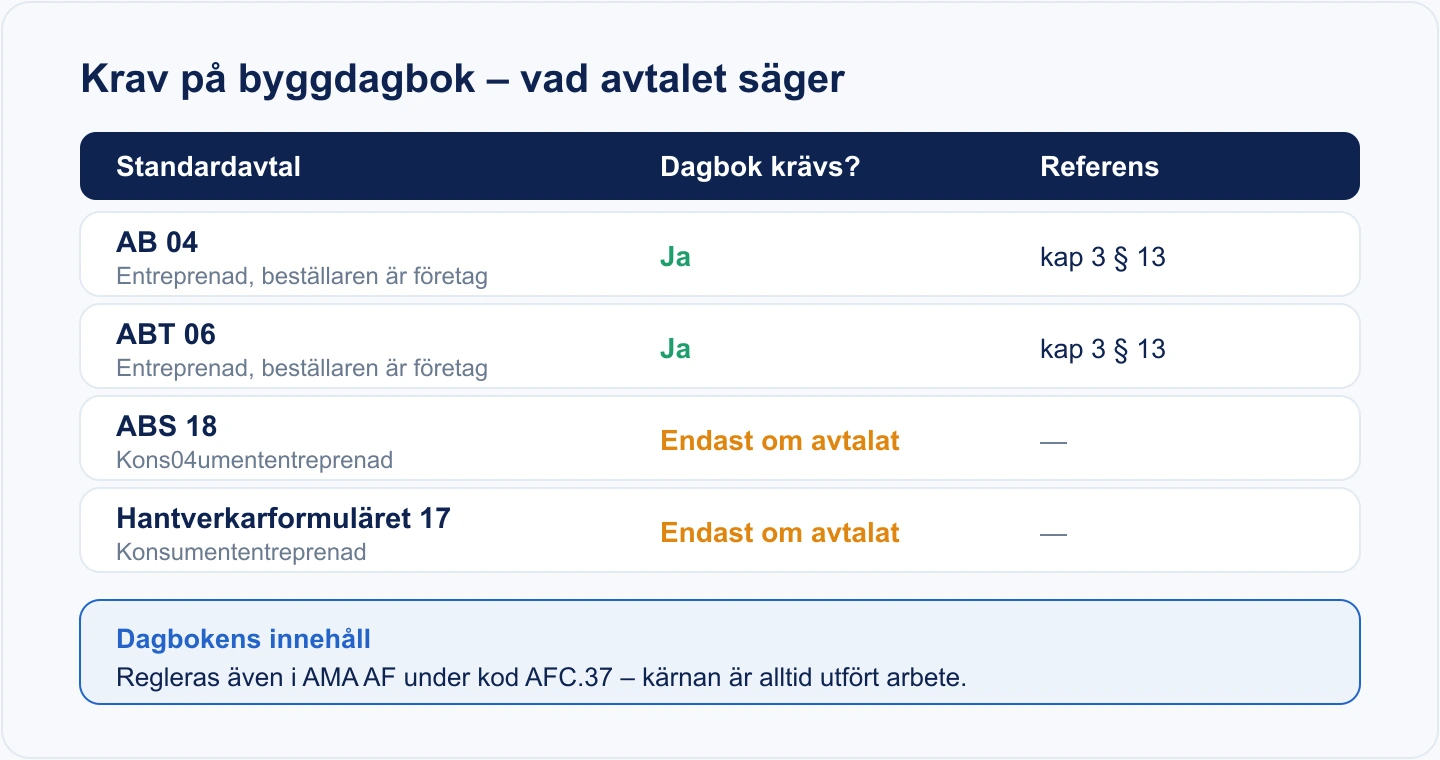
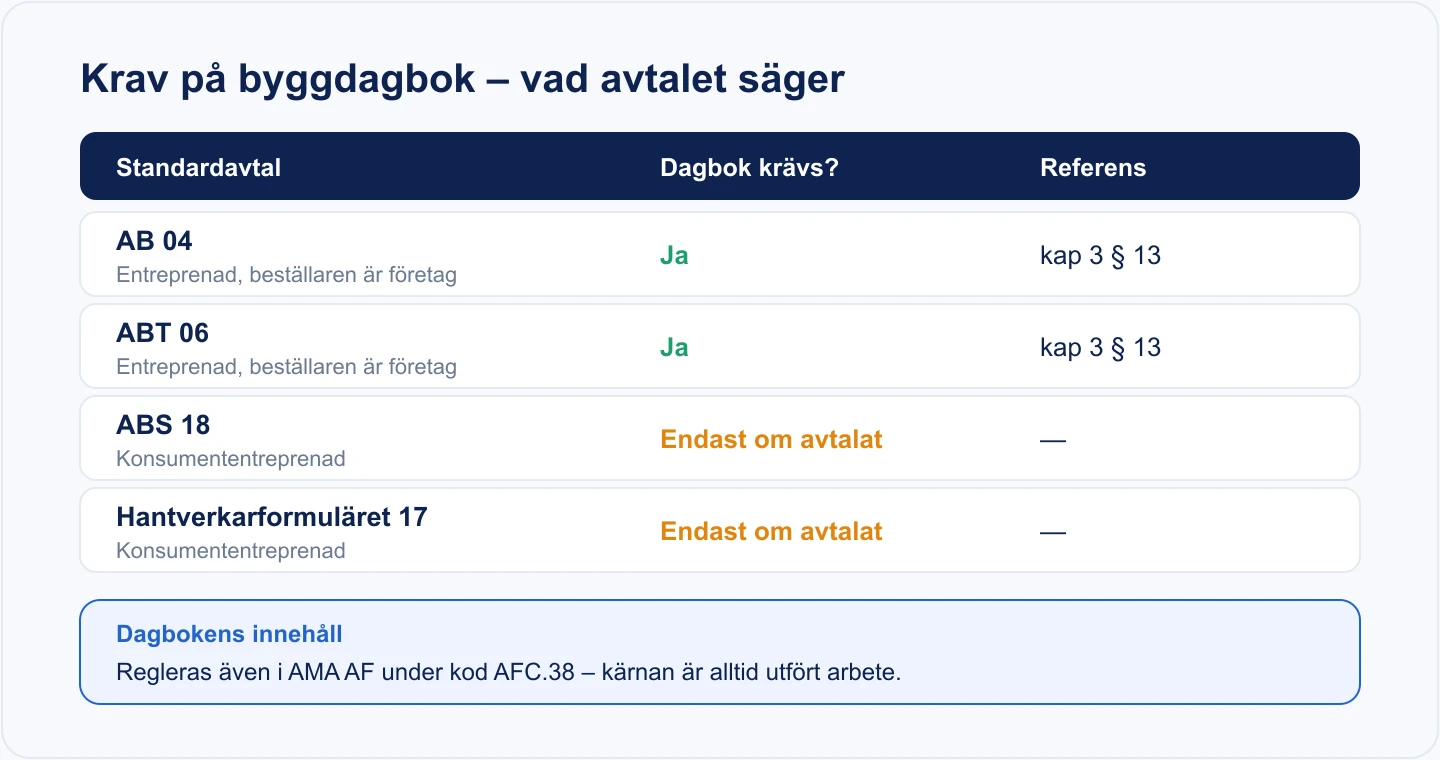
seo: internal links to 5 commercial pages, AFC.38 fix, honest feature claims
- Hub + related articles link to tidrapportering-entreprenad, byggdagbok,
  schemalaggningssystem-bygg, resursplanering-bygg (exact anchors);
  app-for-tidrapportering-bygg entreprenad section → teaser (cannibalisation)
- byggdagbok-krav diagram: typo + AFC.37→AFC.38, moved to byggdagbok article
- Remove claims: auto Byggavtalet OB calc, workers see bemanning schedule in app

Claude-Session: https://claude.ai/code/session_01DyJMUJieBMYXjv47qoJ3xq

diff --git a/src/content/articles/tillvaxt.ts b/src/content/articles/tillvaxt.ts
@@ -845,7 +845,7 @@ const A_PERSONALPLANERING_BYGG_HTML = `
 <li>Lägg upp projekten och perioden du planerar för.</li>
 <li>Fördela personal och lag på projekten utifrån kompetens och var de behövs.</li>
 <li>Kontrollera att ingen är dubbelbokad och att inga projekt står obemannade.</li>
-<li>Dela planen med laget – i mobilen, så alla ser sitt schema direkt.</li>
+<li>Dela planen med laget – uppgifterna syns i mobilen.</li>
 <li>Justera löpande när något ändras; koppla planen till <a href="/sv/blog/tidrapportering-app-byggforetag">registrerad tid</a> för att se plan mot verklighet.</li>
 </ol>
 
@@ -1054,7 +1054,7 @@ const A_APP_TIDRAPPORTERING_BYGG_HTML = `
 <tbody>
 <tr><td><strong>När tiden registreras</strong></td><td>I efterhand, av minnet</td><td>När passet sker</td></tr>
 <tr><td><strong>Rätt projekt</strong></td><td>Gissning i efterhand</td><td>Väljs vid incheckning</td></tr>
-<tr><td><strong>OB, övertid, restid</strong></td><td>Räknas för hand</td><td>Räknas automatiskt</td></tr>
+<tr><td><strong>OB, övertid, restid</strong></td><td>Räknas för hand</td><td>Märks per pass och följer med i exporten</td></tr>
 <tr><td><strong>Fakturaunderlag</strong></td><td>Renskrivs manuellt</td><td>Blir fakturarader direkt</td></tr>
 <tr><td><strong>Risk för fel</strong></td><td>Hög</td><td>Låg</td></tr>
 <tr><td><strong>Tid för administration</strong></td><td>Timmar varje vecka</td><td>Minuter</td></tr>
@@ -1077,8 +1077,8 @@ const A_APP_TIDRAPPORTERING_BYGG_HTML = `
 <h2>Från tid till lön och faktura – ett flöde</h2>
 <p>Poängen med digital tidrapportering är att samma timme bara matas in en gång och sedan används överallt. De granskade och attesterade passen blir <a href="/sv/blog/loneunderlag-for-byggforetag">löneunderlag</a>, <a href="/sv/blog/fakturera-fran-byggexp">fakturarader</a> och en post i <a href="/sv/blog/projektekonomi-och-lonsamhet">projektuppföljningen</a> samtidigt. Ska du välja verktyg för hela kedjan? Läs vår guide om <a href="/sv/blog/tidrapporteringssystem-bygg">tidrapporteringssystem för bygg</a>.</p>
 
-<h2>Tidrapportering för hantverkare och entreprenad</h2>
-<p>För <a href="/sv/blog/tidrapportering-hantverkare">hantverkare och underentreprenörer</a> är tidrapporteringen ofta grunden för både lön och kundfaktura. En app som kopplar tid till projekt gör att du kan fakturera på loggad tid utan dubbelarbete – timmarna blir automatiskt fakturarader. Läs mer om hur tid blir faktura i vår guide om <a href="/sv/blog/fakturera-fran-byggexp">fakturering från ByggExp</a>.</p>
+<h2>Hantverkare eller entreprenad?</h2>
+<p>För <a href="/sv/blog/tidrapportering-hantverkare">hantverkare</a> är loggad tid oftast direkt underlag för kundfakturan. I entreprenader enligt AB 04 och ABT 06 tillkommer attest och ÄTA-timmar som ska hållas isär – det går vi igenom i guiden om <a href="/sv/blog/tidrapportering-entreprenad">tidrapportering för entreprenad</a>.</p>
 
 <h2>Vad du bör titta efter i en app för tidrapport</h2>
 <ul>
@@ -1104,7 +1104,7 @@ const A_APP_TIDRAPPORTERING_BYGG_HTML = `
 <h3>Kostar det något att komma igång?</h3>
 <p>Du kan ladda ner tidrapport-mallen gratis och boka en kostnadsfri demo för att se hur appen fungerar för ditt företag.</p>
 <h3>Hanterar appen OB, övertid och restid?</h3>
-<p>Ja. Timmarna kan räknas med rätt OB-tillägg, övertid och restid enligt byggavtalet automatiskt, så att både lön och fakturaunderlag blir korrekta utan handräkning.</p>
+<p>Ja. Varje pass märks som normaltid, OB eller övertid, och restid och traktamente registreras på passet. Allt följer med i löneunderlaget, så att du slipper leta i lappar – själva tilläggen enligt byggavtalet sätter du i lönesystemet.</p>
 <h3>Kräver appen att alla har samma sorts telefon?</h3>
 <p>Nej. Appen fungerar på både iPhone och Android med samma funktioner, så hela laget kan rapportera tid oavsett modell.</p>
 `.trim();
@@ -1322,7 +1322,7 @@ const A_PROJEKTUPPFOLJNING_BYGG_HTML = `
 <figure class="web-shot"><img src="/features-content/projektekonomi-och-lonsamhet-web.webp" alt="Projektuppföljning i webbadmin: budget mot utfall, timmar, kostnader och marginal i realtid" width="1000" height="548" loading="lazy"><figcaption>Projektets ekonomi i webbadmin – budget mot utfall, timmar, kostnader och marginal uppdateras löpande.</figcaption></figure>
 
 <h2>Så följer du upp projekt i realtid</h2>
-<p>Poängen med digital projektuppföljning är att siffrorna uppdateras av det laget redan gör. När tid, material och kvitton registreras löpande i mobilen ser du <a href="/sv/blog/projektekonomi-och-lonsamhet">projektets ekonomi</a> mot budget i realtid – utan att sammanställa något manuellt. Då hinner du agera på projekt som närmar sig budgettaket: justera bemanning, ÄTA-fakturera eller stämma av med kunden.</p>
+<p>Poängen med digital projektuppföljning är att siffrorna uppdateras av det laget redan gör. När tid, material och kvitton registreras löpande i mobilen ser du <a href="/sv/blog/projektekonomi-och-lonsamhet">projektets ekonomi</a> mot budget i realtid – utan att sammanställa något manuellt. Då hinner du agera på projekt som närmar sig budgettaket: justera bemanning, ÄTA-fakturera eller stämma av med kunden. I entreprenader är det ofta ÄTA-timmarna som faller mellan stolarna – guiden om <a href="/sv/blog/tidrapportering-entreprenad">tidrapportering för entreprenad</a> visar hur du håller isär dem.</p>
 
 <h2>Från uppföljning till bättre kalkyler</h2>
 <p>Uppföljningen är också din bästa lärdom inför nästa anbud. När projektet är klart jämför du utfallet mot kalkylen i en <a href="/sv/blog/efterkalkyl-bygg-kalkyluppfoljning">efterkalkyl</a> – då ser du vilka moment som konsekvent kostar mer än planerat och kan prisa nästa jobb rätt. Bra tidrapportering är förutsättningen: utan korrekta timmar blir efterkalkylen en gissning.</p>
@@ -1746,7 +1746,7 @@ const S_TIDSREGISTRERING_APP_BYGG_HTML = `
 <tr><td><strong>GPS på incheckning</strong></td><td>Bekräftar närvaro där jobbet utförs</td></tr>
 <tr><td><strong>Offline-läge</strong></td><td>Källare och nybyggen saknar ofta täckning</td></tr>
 <tr><td><strong>Projektkoppling</strong></td><td>Timmarna hamnar rätt utan efterarbete</td></tr>
-<tr><td><strong>OB &amp; övertid</strong></td><td>Räknas enligt byggavtalet automatiskt</td></tr>
+<tr><td><strong>OB &amp; övertid</strong></td><td>Märks per pass (normal, OB, övertid) och följer med till lön</td></tr>
 <tr><td><strong>Export till lön &amp; faktura</strong></td><td>Registrera en gång, använd överallt</td></tr>
 </tbody>
 </table></div>
@@ -2042,8 +2042,9 @@ const A_SCHEMALAGGNING_BYGG_HTML = `
 <li>Delad vy över hela laget per vecka eller månad.</li>
 <li>Planera per person eller per projekt.</li>
 <li>Se frånvaro (semester, sjuk) direkt i planen.</li>
-<li>Planen syns i appen för alla berörda och uppdateras i realtid.</li>
+<li>Uppgifterna syns i appen för dem som ska utföra dem.</li>
 </ul>
+<p>Ska du jämföra verktyg? Guiden om <a href="/sv/blog/schemalaggningssystem-bygg">schemaläggningssystem för bygg</a> går igenom vad du bör kräva, och den om <a href="/sv/blog/resursplanering-bygg">resursplanering i bygg</a> hur du undviker dubbelbokning.</p>
 
 <h2>Från plan till faktisk tid</h2>
 <p>Störst nytta gör schemat när det kopplas till verkligheten: planerad tid jämförs med <a href="/sv/blog/automatisk-tidrapportering-och-export">loggad tid</a>, och avvikelser syns i <a href="/sv/blog/projektuppfoljning-bygg">projektuppföljningen</a>.</p>
@@ -2057,7 +2058,7 @@ const A_SCHEMALAGGNING_BYGG_HTML = `
 <h3>Vad är skillnaden mot dagsplanering?</h3>
 <p>Schemaläggning är den längre planeringen över veckor/månader; dagsplaneringen är den konkreta genomgången av dagens jobb. De hänger ihop och delar samma plan.</p>
 <h3>Ser personalen sitt schema i mobilen?</h3>
-<p>Ja. Planen delas till appen och uppdateras i realtid, så alla berörda ser sitt schema och eventuella ändringar direkt.</p>
+<p>I appen ser medarbetaren sina uppgifter och projekt i en tidslinje. Bemanningsplanen per dag hanteras i webben av arbetsledningen.</p>
 `.trim();
 
 const A_SCHEMALAGGNING_BYGG: BlogPost = {
@@ -2349,6 +2350,9 @@ const A_BYGGDAGBOK_HTML = `
 <li><strong>AMA AF, kod AFC.38</strong> (AFD.38 vid totalentreprenad): anger vad dagboken ska innehålla, om förfrågningsunderlaget hänvisar till AMA AF. I äldre utgåvor av AMA AF låg dagboken under AFC.37, så båda koderna förekommer.</li>
 <li><strong>Konsumentjobb (ABS 18, Hantverkarformuläret 17):</strong> inget motsvarande krav. Dagbok förs bara om ni avtalat om det.</li>
 </ul>
+
+<figure class="article-diagram"><img src="/landing/diagrams/byggdagbok-krav.webp" alt="Tabell som visar när byggdagbok krävs: AB 04 och ABT 06 kräver dagbok enligt kap 3 § 13, medan ABS 18 och Hantverkarformuläret 17 bara kräver det om parterna avtalat om det." width="720" height="380" loading="lazy"><figcaption>I AB 04 och ABT 06 är byggdagbok ett krav enligt kap 3 § 13, medan konsumentavtalen ABS 18 och Hantverkarformuläret 17 bara kräver dagbok om parterna avtalat om det.</figcaption></figure>
+
 <p>Enligt AMA AF ska dagboken i tillämpliga delar innehålla uppgift om:</p>
 <ol>
 <li>Arbetsplatsens namn och belägenhet</li>
@@ -2445,7 +2449,7 @@ const A_BYGGDAGBOK: BlogPost = {
 };
 
 const A_PROJEKTLEDNING_BYGGFORETAG_HTML = `
-<p>Projektledning i bygg handlar om att ta ett projekt från anbud till godkänd slutbesiktning utan att tappa kontrollen över tid, pengar och kvalitet på vägen. Det är en roll som lika mycket handlar om planering och uppföljning som om folk och kommunikation. Den här guiden går igenom faserna i ett byggprojekt, vad byggprojektledaren ansvarar för i varje steg och vilka verktyg som gör jobbet lättare.</p><figure class="article-diagram"><img src="/landing/diagrams/byggdagbok-krav.webp" alt="Tabell som visar när byggdagbok krävs: AB 04 och ABT 06 kräver dagbok enligt kap 3 § 13, medan ABS 18 och Hantverkarformuläret 17 bara kräver det om parterna avtalat om det." width="720" height="380" loading="lazy"><figcaption>I AB 04 och ABT 06 är byggdagbok ett krav enligt kap 3 § 13, medan konsumentavtalen ABS 18 och Hantverkarformuläret 17 bara kräver dagbok om parterna avtalat om det.</figcaption></figure>
+<p>Projektledning i bygg handlar om att ta ett projekt från anbud till godkänd slutbesiktning utan att tappa kontrollen över tid, pengar och kvalitet på vägen. Det är en roll som lika mycket handlar om planering och uppföljning som om folk och kommunikation. Den här guiden går igenom faserna i ett byggprojekt, vad byggprojektledaren ansvarar för i varje steg och vilka verktyg som gör jobbet lättare.</p>
 
 <p>Vill du gå direkt på systemstödet? Läs om <a href="/sv/blog/projekthanteringssystem-bygg">projekthanteringssystem för bygg</a>, eller hur du <a href="/sv/blog/digitalisera-byggforetag-projektstyrning">digitaliserar projektstyrningen</a>.</p>
 

diff --git a/src/content/articles/personal.ts b/src/content/articles/personal.ts
@@ -23,6 +23,7 @@ const BEMANNING_HTML = `
 <li>Justera löpande när något ändras – och låt laget se sitt schema.</li>
 <li>Följ upp beläggning mot plan för att hitta över- och underbeläggning.</li>
 </ol>
+<p>Hur du räknar kapacitet mot behov över flera projekt går vi igenom i guiden om <a href="/sv/blog/resursplanering-bygg">resursplanering i bygg</a>.</p>
 
 <h2>Vanliga misstag</h2>
 <ul>
@@ -33,7 +34,7 @@ const BEMANNING_HTML = `
 </ul>
 
 <h2>Så gör du i ByggExp</h2>
-<p>I ByggExp planerar du bemanningen visuellt: fördela personal på projekt och pass, se frånvaro och beläggning i en delad vy, och låt medarbetarna se sitt schema i mobilen. Eftersom bemanning, närvaro, tid och ekonomi ligger i samma app hänger planen ihop med verkligheten – planerade timmar följer med hela vägen till <a href="/sv/blog/loneunderlag-for-byggforetag">löneunderlaget</a>.</p>
+<p>I ByggExp planerar du bemanningen visuellt: fördela personal på projekt och pass, se frånvaro och beläggning i en delad vy, och låt medarbetarna se sina uppgifter i mobilen. Eftersom bemanning, närvaro, tid och ekonomi ligger i samma app hänger planen ihop med verkligheten – planerade timmar följer med hela vägen till <a href="/sv/blog/loneunderlag-for-byggforetag">löneunderlaget</a>.</p>
 
 <p>Vill du ersätta Excel med ett digitalt verktyg? Läs om <a href="/sv/blog/bemanningssystem-bygg">bemanningssystem för bygg och digital bemanningsplanering</a>.</p>
 
@@ -851,12 +852,12 @@ const BEMANNINGSSYSTEM_HTML = `
 <li>Lägg in projekten och deras behov – antal personer och kompetens per period.</li>
 <li>Fördela personalen på projekt och pass i en delad vy.</li>
 <li>Markera frånvaro (sjuk, VAB, semester) så att luckor och överbokning syns direkt.</li>
-<li>Justera löpande när något ändras – och låt laget se sitt schema i mobilen.</li>
+<li>Justera löpande när något ändras – och låt laget se sina uppgifter i mobilen.</li>
 <li>Följ upp beläggning mot plan för att hitta över- och underbeläggning.</li>
 </ol>
 
 <h2>Bemanningssystem i ByggExp</h2>
-<p>I ByggExp planerar du bemanningen visuellt: fördela personal på projekt och pass, se frånvaro och beläggning i en delad vy, och låt medarbetarna se sitt schema i mobilen. Eftersom bemanning, närvaro, <a href="/sv/blog/app-for-tidrapportering-bygg">tid</a> och ekonomi ligger i samma app hänger planen ihop med verkligheten – planerade timmar följer med hela vägen till <a href="/sv/blog/loneunderlag-for-byggforetag">löneunderlaget</a>.</p>
+<p>I ByggExp planerar du bemanningen visuellt: fördela personal på projekt och pass, se frånvaro och beläggning i en delad vy, och låt medarbetarna se sina uppgifter i mobilen. Eftersom bemanning, närvaro, <a href="/sv/blog/app-for-tidrapportering-bygg">tid</a> och ekonomi ligger i samma app hänger planen ihop med verkligheten – planerade timmar följer med hela vägen till <a href="/sv/blog/loneunderlag-for-byggforetag">löneunderlaget</a>.</p>
 
 <h2>Kom igång</h2>
 <p>Sluta pussla bemanningsplaneringen i huvudet eller i Excel. <a href="/sv/blog/bemanning-och-personalplanering">Läs mer om bemanning och personalplanering</a>, se <a href="/sv/blog/schemalaggningssystem-bygg">schemaläggningssystem</a> eller <a href="/sv/contact">boka en demo av ByggExp</a>.</p>
@@ -901,7 +902,7 @@ const BEMANNINGSSYSTEM: BlogPost = {
       'Lägg in projekten och deras behov – antal personer och kompetens per period.',
       'Fördela personalen på projekt och pass i en delad vy.',
       'Markera frånvaro så att luckor och överbokning syns direkt.',
-      'Justera löpande och låt laget se sitt schema i mobilen.',
+      'Justera löpande och låt laget se sina uppgifter i mobilen.',
       'Följ upp beläggning mot plan för att hitta över- och underbeläggning.',
     ],
   },

diff --git a/scripts/gen-article-diagrams.js b/scripts/gen-article-diagrams.js
@@ -124,6 +124,29 @@ const byggdagbok = frame(`
   <text x="408" y="265" ${font} font-size="13.5" fill="${INK}">bilderna till dagens anteckning.</text>
 `);
 
+// 6b. Byggdagbok – krav per standardavtal (rendered 2× like the other GSC-top diagrams)
+function kravRow(y, name, sub, req, reqColor, ref) {
+  return `<rect x="40" y="${y}" width="640" height="42" rx="8" fill="#fff" stroke="#e3e9f2"/>
+  <text x="58" y="${y + 19}" ${font} font-size="13.5" font-weight="800" fill="${INK}">${name}</text>
+  <text x="58" y="${y + 35}" ${font} font-size="11" fill="${MUT}">${sub}</text>
+  <text x="330" y="${y + 26}" ${font} font-size="13" font-weight="800" fill="${reqColor}">${req}</text>
+  <text x="520" y="${y + 26}" ${font} font-size="13" fill="${INK}">${ref}</text>`;
+}
+const byggdagbokKrav = frame(`
+  ${title('Krav på byggdagbok – vad avtalet säger')}
+  <rect x="40" y="66" width="640" height="34" rx="8" fill="${INK}"/>
+  <text x="58" y="88" ${font} font-size="12.5" font-weight="700" fill="#fff">Standardavtal</text>
+  <text x="330" y="88" ${font} font-size="12.5" font-weight="700" fill="#fff">Dagbok krävs?</text>
+  <text x="520" y="88" ${font} font-size="12.5" font-weight="700" fill="#fff">Referens</text>
+  ${kravRow(106, 'AB 04', 'Entreprenad, beställaren är företag', 'Ja', GREEN, 'kap 3 § 13')}
+  ${kravRow(152, 'ABT 06', 'Entreprenad, beställaren är företag', 'Ja', GREEN, 'kap 3 § 13')}
+  ${kravRow(198, 'ABS 18', 'Konsumententreprenad', 'Endast om avtalat', AMBER, '—')}
+  ${kravRow(244, 'Hantverkarformuläret 17', 'Konsumententreprenad', 'Endast om avtalat', AMBER, '—')}
+  <rect x="40" y="300" width="640" height="52" rx="10" fill="#eef4ff" stroke="${BLUE}"/>
+  <text x="58" y="321" ${font} font-size="12" font-weight="800" fill="${BLUE}">Dagbokens innehåll</text>
+  <text x="58" y="340" ${font} font-size="12" fill="${INK}">Regleras även i AMA AF under kod AFC.38 – kärnan är alltid utfört arbete.</text>
+`);
+
 // 7. Betong – platta med kantbalk
 const betong = frame(`
   ${title('Betong – volym för platta med kantbalk')}
@@ -636,6 +659,7 @@ const DIAGRAMS = {
   'heta-arbeten': hetaArbeten,
   'egenkontroll-cykel': egenkontroll,
   'byggdagbok': byggdagbok,
+  'byggdagbok-krav': byggdagbokKrav,
   'betong': betong,
   'grus': grus,
   'kvadratmeter': kvadratmeter,
@@ -650,11 +674,18 @@ const DIAGRAMS = {
   'projektuppfoljning': projektuppfoljning,
 };
 
+// Diagrams rendered at 2× (1440×760) for a sharp lightbox.
+const HIRES = new Set(['byggdagbok-krav']);
+
 async function main() {
   fs.mkdirSync(OUT, { recursive: true });
+  // Optional filter: node scripts/gen-article-diagrams.js byggdagbok-krav
+  const only = process.argv.slice(2);
   for (const [name, svg] of Object.entries(DIAGRAMS)) {
+    if (only.length && !only.includes(name)) continue;
     const out = path.join(OUT, `${name}.webp`);
-    await sharp(Buffer.from(svg)).webp({ quality: 90 }).toFile(out);
+    const density = HIRES.has(name) ? 144 : 72;
+    await sharp(Buffer.from(svg), { density }).webp({ quality: 90 }).toFile(out);
     console.log('wrote', out);
   }
 }

diff --git a/src/content/articles/kvalitet.ts b/src/content/articles/kvalitet.ts
@@ -139,6 +139,7 @@ const TIDRAPPORTERING_HTML = `
 <li><strong>Restid och ställtid</strong> – även om den inte debiteras påverkar den debiteringsgraden</li>
 </ul>
 <p>Registrera gärna varje pass för sig när samma person jobbar på flera projekt eller moment samma dag.</p>
+<p>Jobbar ni under AB 04 eller ABT 06 tillkommer attest och ÄTA-timmar som ska kunna redovisas separat – se guiden om <a href="/sv/blog/tidrapportering-entreprenad">tidrapportering för entreprenad</a>.</p>
 
 <h2>Tidrapport vs personalliggare – inte samma sak</h2>
 <p>Många blandar ihop dem, men de har olika syften:</p>
@@ -152,7 +153,7 @@ const TIDRAPPORTERING_HTML = `
 <p>För att lönen ska bli rätt behöver tidrapporten skilja på vanlig tid och tillägg. OB (obekväm arbetstid), övertid (utöver ordinarie tid för heltid) och mertid (för deltidsanställda) styrs av kollektivavtal – notera dem separat direkt när tiden registreras, annars blir det gissningar vid lönekörningen.</p>
 
 <h2>Så för du tid i ByggExp</h2>
-<p>I ByggExp stämplar teamet <a href="/sv/blog/mobil-tidrapportering">tid direkt i mobilen</a>, kopplat till rätt projekt – så att inget skrivs av på lappar i efterhand:</p>
+<p>Med <a href="/sv/blog/mobil-tidrapportering">mobil tidrapportering</a> i ByggExp stämplar teamet tid direkt i telefonen, kopplat till rätt projekt – så att inget skrivs av på lappar i efterhand:</p>
 <ol>
 <li>Varje medarbetare startar och stoppar tid per projekt och moment.</li>
 <li>OB, övertid och restid registreras med tiden – klart för lön.</li>
@@ -1608,6 +1609,7 @@ const A_TIDREDOVISNING_BYGGFORETAG_HTML = `
 <ul>
 <li><strong>Rapportera i efterhand.</strong> Tid som fylls i en vecka senare blir gissningar – registrera löpande.</li>
 <li><strong>Ingen projektkod.</strong> Utan koppling till projekt går det inte att följa upp marginalen eller fakturera rätt.</li>
+<li><strong>ÄTA-timmar blandas med kontraktsarbetet.</strong> I en entreprenad måste ÄTA-tiden hållas isär för att kunna faktureras – mer om det i guiden om <a href="/sv/blog/tidrapportering-entreprenad">tidrapportering för entreprenad</a>.</li>
 <li><strong>Blanda ihop med personalliggaren.</strong> Personalliggaren uppfyller inte kravet på löneunderlag, och tidredovisningen uppfyller inte lagkravet på närvaroregistrering.</li>
 </ul>
 
@@ -1715,7 +1717,7 @@ const ENKELT_TIDRAPPORTERINGSSYSTEM: BlogPost = {
   contentHtml: ENKELT_TIDRAPPORTERINGSSYSTEM_HTML,
   seoTitle: 'Enkelt tidrapporteringssystem för bygg | ByggExp',
   seoDescription:
-    'Enkelt tidrapporteringssystem för bygg: laget stämplar in/ut i mobilen med GPS, OB och övertid räknas automatiskt och timmarna blir underlag till lön och faktura.',
+    'Enkelt tidrapporteringssystem för bygg: laget stämplar in/ut i mobilen med GPS, timmarna märks som normaltid, OB eller övertid och blir underlag till lön och faktura.',
   seoImageUrl: `${SITE_URL}/landing/features/1arbetspass.webp`,
   canonicalUrl: '',
   noIndex: false,

diff --git a/src/pages/[lang]/verktyg/byggdagbok-mall.tsx b/src/pages/[lang]/verktyg/byggdagbok-mall.tsx
@@ -1,5 +1,6 @@
 import type { GetServerSideProps } from 'next';
 import Head from 'next/head';
+import Link from 'next/link';
 
 import Footer from '../../../components/Footer/Footer';
 import Header from '../../../components/Header/Header';
@@ -21,7 +22,7 @@ const FAQ: LeadMagnetFaqItem[] = [
   {
     question: 'Är en byggdagbok ett krav?',
     answer:
-      'I entreprenader enligt AB 04 ska entreprenören föra dagbok över förhållanden av betydelse för entreprenaden och löpande delge beställaren innehållet. Vad dagboken bör innehålla styrs ofta av AMA AF (AF AMA 07).',
+      'I entreprenader enligt AB 04 och ABT 06 (kap. 3 § 13) ska entreprenören föra dagbok över förhållanden av betydelse för entreprenaden och löpande delge beställaren innehållet. Vad dagboken bör innehålla anges i AMA AF 12/21 under kod AFC.38.',
   },
   {
     question: 'Vad ska en byggdagbok innehålla?',
@@ -221,13 +222,13 @@ export default function ByggdagbokMallPage() {
           },
           {
             id: 'byggdagbok-lag-ab04-ama-af',
-            heading: 'Vad säger lagen – AB 04 och AMA AF',
+            heading: 'Vad kräver AB 04 och AMA AF?',
             body: (
               <p>
                 I entreprenader enligt standardavtalet <strong>AB 04</strong> ska entreprenören föra
                 dagbok över omständigheter av betydelse för entreprenaden och fortlöpande delge
                 beställaren innehållet. Hur dagboken utformas styrs ofta av{' '}
-                <strong>AMA AF (AF AMA 07)</strong>, som anger vilka uppgifter som förväntas. En väl
+                <strong>AMA AF 12/21 (kod AFC.38)</strong>, som anger vilka uppgifter som förväntas. En väl
                 förd byggdagbok blir därför både ett avtalskrav och ett viktigt bevisunderlag om
                 tidplan, ÄTA eller ansvar ifrågasätts i efterhand.
               </p>
@@ -275,7 +276,8 @@ export default function ByggdagbokMallPage() {
                 digital byggdagbok fylls i på plats i mobilen, kopplar bilder till rätt dag och projekt
                 och sparas automatiskt. Du kan söka tillbaka, dela med beställaren och slipper tolka
                 blöta anteckningar från fickan. För de flesta byggföretag väger fördelarna med digitalt
-                tungt – särskilt när dokumentationen ska hålla i flera år.
+                tungt – särskilt när dokumentationen ska hålla i flera år. Se vad en{' '}
+                <Link href="/sv/blog/byggdagbok">digital byggdagbok</Link> behöver klara.
               </p>
             ),
           },

diff --git a/src/content/articles/ekonomi.ts b/src/content/articles/ekonomi.ts
@@ -1946,7 +1946,7 @@ const A_ATA_HANTERING_MALL_HTML = `
 <li><strong>Prissätt arbetet</strong> – enligt à-pris, fast pris eller löpande räkning.</li>
 <li><strong>Få skriftligt godkännande</strong> – innan du börjar utföra.</li>
 <li><strong>Utför arbetet</strong>.</li>
-<li><strong>Dokumentera löpande</strong> – i ÄTA-journal, dagbok och byggmötesprotokoll.</li>
+<li><strong>Dokumentera löpande</strong> – i ÄTA-journal, <a href="/sv/blog/byggdagbok">byggdagbok</a> och byggmötesprotokoll.</li>
 <li><strong>Fakturera löpande</strong> – med tidsedlar, materialkvitton och specifikationer som underlag.</li>
 </ol>
 
@@ -1965,7 +1965,7 @@ const A_ATA_HANTERING_MALL_HTML = `
 <p>Med underskriften på plats före utförandet har du säkrat både beställningen, priset och den eventuella tidsförskjutningen i ett enda dokument.</p>
 
 <h2>Fakturera rätt</h2>
-<p>Har inget à-pris eller fast pris avtalats ersätts ÄTA på näringssidan enligt självkostnadsprincipen, det vill säga löpande räkning. Det kräver verifierbara underlag – tidsedlar, materialkvitton och specifikationer. Utan dem blir det svårt att stå fast vid beloppet om beställaren ifrågasätter.</p>
+<p>Har inget à-pris eller fast pris avtalats ersätts ÄTA på näringssidan enligt självkostnadsprincipen, det vill säga löpande räkning. Det kräver verifierbara underlag – tidsedlar, materialkvitton och specifikationer. Utan dem blir det svårt att stå fast vid beloppet om beställaren ifrågasätter. ÄTA-timmarna behöver därför märkas redan i tidrapporten – se guiden om <a href="/sv/blog/tidrapportering-entreprenad">tidrapportering för entreprenad</a>.</p>
 <p>Lika viktigt: fakturera ÄTA löpande, inte i en klump vid projektets slut. Enligt AB 04/ABT 06 kap 6 ska ersättningskrav framställas i god tid, och krav som inte tagits med i slutfakturan efter godkänd slutbesiktning kan gå förlorade. Ta med alla ÄTA-krav <em>innan</em> slutbesiktning och slutfaktura. På konsumentjobb: håll dig inom prisuppgiften eller informera i tid om att den behöver överskridas.</p>
 
 <h2>Vanliga misstag och hur du undviker dem</h2>

diff --git a/src/pages/[lang]/verktyg/ata-mall.tsx b/src/pages/[lang]/verktyg/ata-mall.tsx
@@ -233,6 +233,7 @@ export default function AtaMallPage() {
         related={[
           { href: `/${LOCALE}/blog/ata-arbeten`, label: 'Guide: ÄTA-arbeten enligt AB 04' },
           { href: `/${LOCALE}/verktyg/byggdagbok-mall`, label: 'Byggdagbok – gratis mall' },
+          { href: `/${LOCALE}/blog/byggdagbok`, label: 'Guide: byggdagbok' },
           { href: `/${LOCALE}/verktyg/offert-mall`, label: 'Offert – gratis mall' },
         ]}
       />
